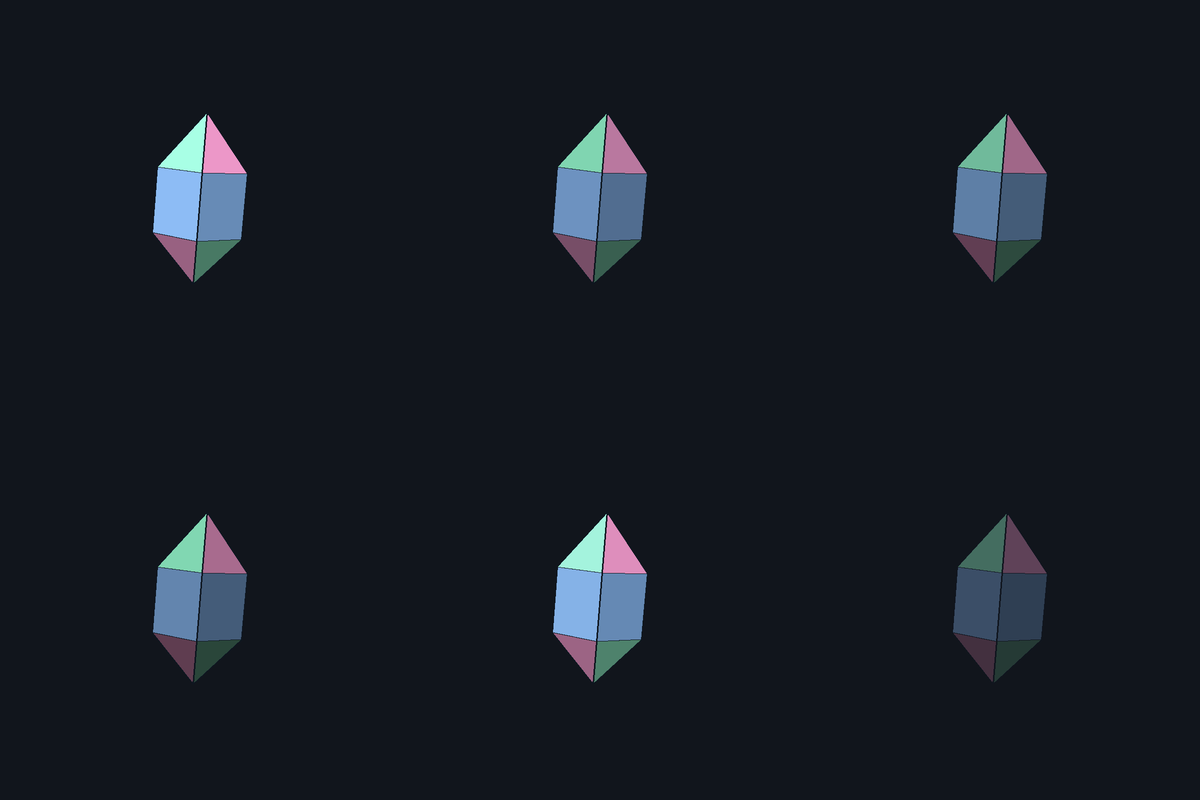
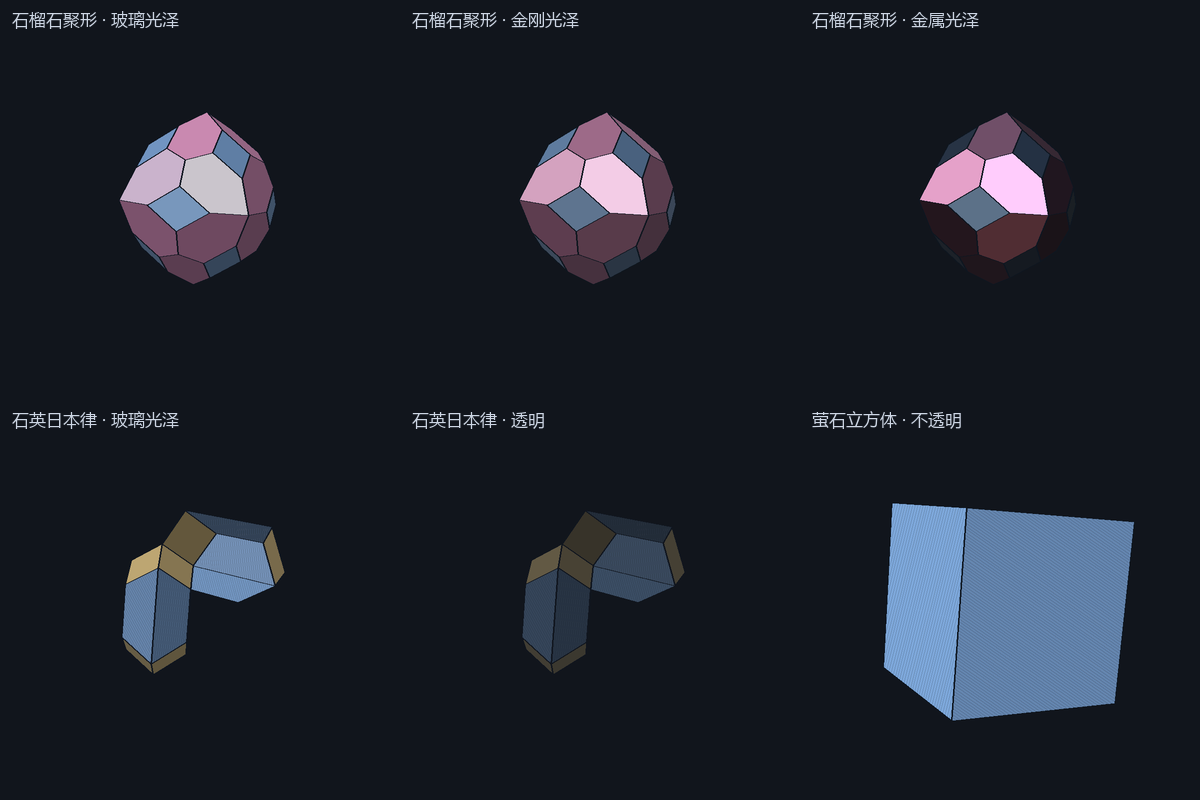
渲染第 0 步：Schlick 菲涅耳 + 程序化影棚环境反射，六种光泽区分开
LUSTERS 每项加 ior/envI/metal；shadeFace() 重写：R0=((n-1)/(n+1))^2，F=R0+(1-R0)(1-|n.v|)^5，按 r=2(n.v)n-v 取样 ENV_LIGHTS 环境；金属 amb/diff .28/.54 -> .04/.07（漫反射会淹掉反射，是光泽无差异的主因）。qa-render.py 同步复刻，lustre 六联图加中文标签（微软雅黑）。文档 §11 记录三次失败调参与仍做不到的（色散/次表面/每像素法线）。

diff --git a/demo/crystal.html b/demo/crystal.html
@@ -346,14 +346,16 @@ const Q_VIEW = qNorm(qMul(qAxis(0, 1, 0, 0.52), qAxis(1, 0, 0, -Math.PI / 2 + 0.
 const Q_AXES = qNorm(qAxis(1, 0, 0, -Math.PI / 2));
 const TINTS = [[0.55, 0.74, 0.97], [0.97, 0.62, 0.82], [0.55, 0.92, 0.76], [0.97, 0.84, 0.55]];
 const LIGHT_V = unit([-0.34, 0.62, 0.72]);
-/* 光泽模型：amb 环境、diff 漫反射、spec 高光强度、shin 高光锐度、alpha 通透度、back 背面透出度 */
+/* 光泽模型：amb 环境、diff 漫反射、spec 高光强度、shin 高光锐度、alpha 通透度、back 背面透出度、
+   fres 掠射角提亮、ior 折射率（决定 R0=((n-1)/(n+1))^2 镜面反射率）、envI 环境反射强度、
+   metal 金属（R0=1 且反射带本体色，无漫反射） */
 const LUSTERS = {
-  opaque:      { zh: "不透明", amb: .54, diff: .62, spec: .05, shin: 8,   alpha: 1,    back: 1,   fres: .06 },
-  glass:       { zh: "玻璃",   amb: .44, diff: .56, spec: .60, shin: 80,  alpha: .88,  back: .55, fres: .40 },
-  adamantine:  { zh: "金刚",   amb: .30, diff: .50, spec: .98, shin: 150, alpha: .95,  back: .62, fres: .58 },
-  metallic:    { zh: "金属",   amb: .28, diff: .54, spec: .85, shin: 42,  alpha: 1,    back: 1,   fres: .50, tintSpec: true },
-  waxy:        { zh: "蜡状",   amb: .58, diff: .50, spec: .18, shin: 14,  alpha: .96,  back: .72, fres: .14 },
-  transparent: { zh: "透明",   amb: .40, diff: .44, spec: .40, shin: 70,  alpha: .50,  back: .30, fres: .62 },
+  opaque:      { zh: "不透明", amb: .50, diff: .60, spec: .05, shin: 4,   alpha: 1,    back: 1,   fres: .06, ior: 1.60, envI: .10 },
+  glass:       { zh: "玻璃",   amb: .40, diff: .55, spec: .75, shin: 14,  alpha: .78,  back: .55, fres: .34, ior: 1.54, envI: .52 },
+  adamantine:  { zh: "金刚",   amb: .22, diff: .38, spec: 1.0, shin: 22,  alpha: .95,  back: .62, fres: .48, ior: 2.42, envI: 1.00 },
+  metallic:    { zh: "金属",   amb: .04, diff: .07, spec: .85, shin: 10,  alpha: 1,    back: 1,   fres: .34, ior: 1.00, envI: .95, metal: 1 },
+  waxy:        { zh: "蜡状",   amb: .58, diff: .50, spec: .22, shin: 6,   alpha: .96,  back: .72, fres: .14, ior: 1.50, envI: .22 },
+  transparent: { zh: "透明",   amb: .34, diff: .42, spec: .55, shin: 16,  alpha: .45,  back: .30, fres: .52, ior: 1.54, envI: .45 },
 };
 const DEFAULT_LUSTER = "glass";
 
@@ -477,16 +479,48 @@ const inside = (p) => {
 
 const mat = () => LUSTERS[state.luster || mineral().luster || DEFAULT_LUSTER] || LUSTERS.glass;
 
+/* 程序化"影棚环境"：方向固定在世界/观察空间，晶体转动时反射内容随之扫过各个晶面——
+   这正是真实晶体在固定光源下的观感。不是贴图，是几个方向光斑加天地渐变。
+   第一个与 LIGHT_V 同向，保证高光和环境反射对得上（不会出现"高光在左、亮斑在右"的撕裂） */
+const ENV_LIGHTS = [
+  { dir: unit([-0.34, 0.62, 0.72]), col: [1.00, 0.98, 0.93], sharp: 3.5, inten: 0.75 },  // 主柔光箱：大面积柔光，提供整体的"上左下亮"反射梯度
+  { dir: unit([0.72, 0.28, 0.62]),  col: [0.60, 0.72, 1.00], sharp: 26, inten: 0.50 },  // 高位冷侧亮块：较窄，制造锐利的亮斑
+  { dir: unit([0.10, -0.85, 0.50]), col: [0.95, 0.78, 0.58], sharp: 2,  inten: 0.26 },  // 下方暖反光板
+];
+function envSample(r) {
+  const out = [0, 0, 0];
+  for (const L of ENV_LIGHTS) {
+    const k = Math.pow(Math.max(0, dot(r, L.dir)), L.sharp) * L.inten;
+    out[0] += k * L.col[0]; out[1] += k * L.col[1]; out[2] += k * L.col[2];
+  }
+  // 天顶亮、地平中、地面暗的基础渐变：没有它，反射非光源方向是死黑，金属会"缺块"
+  const t = Math.max(-1, Math.min(1, r[1]));
+  const g = 0.16 * Math.pow(Math.max(0, t), 0.65) + 0.05 * Math.pow(Math.max(0, -t), 0.5);
+  out[0] += g * 0.72; out[1] += g * 0.80; out[2] += g * 0.95;
+  return out;
+}
+
 function shadeFace(base, n, cw, eye, M) {
   const lam = Math.max(0, dot(n, LIGHT_V));
   const v = unit(sub(eye, cw));
   const hv = unit([LIGHT_V[0] + v[0], LIGHT_V[1] + v[1], LIGHT_V[2] + v[2]]);
   const sp = Math.pow(Math.max(0, dot(n, hv)), M.shin) * M.spec;
   const tint = M.tintSpec ? [0.35 + 0.65 * base[0], 0.35 + 0.65 * base[1], 0.35 + 0.65 * base[2]] : null;
-  // 掠射角提亮（Fresnel）：玻璃/金刚石在斜看时边缘发亮，这一项最能拉开"塑料感"与"晶体感"
-  const fres = Math.pow(1 - Math.abs(dot(n, v)), 3) * (M.fres || 0);
+  // 反射向量：视线被这个面弹向哪里，就取环境那个方向的颜色
+  const d = dot(n, v);
+  const env = envSample([2 * d * n[0] - v[0], 2 * d * n[1] - v[1], 2 * d * n[2] - v[2]]);
+  // Schlick 菲涅耳：R0=((n-1)/(n+1))^2。石英≈4%、金刚石≈17%、金属=1。
+  // 同一种"亮边"，过去只能靠 fres 假造，现在有了物理依据
+  const R0 = M.metal ? 1 : Math.pow((M.ior - 1) / (M.ior + 1), 2);
+  const F = R0 + (1 - R0) * Math.pow(1 - Math.abs(d), 5);
+  const refl = F * M.envI;
+  // 掠射角提亮：保留的"晶体感"项，量已调小，避免与 Schlick 双重计分
+  const fres = Math.pow(1 - Math.abs(d), 3) * (M.fres || 0) * 0.45;
   return [0, 1, 2].map(i =>
-    clamp(base[i] * (M.amb + M.diff * lam) + (tint ? tint[i] : 1) * sp + fres * (0.55 + 0.45 * base[i]), 0, 1));
+    clamp(base[i] * (M.amb + M.diff * lam)                       // 漫反射 + 环境光
+      + (tint ? tint[i] : 1) * sp                                 // 锐利高光
+      + (M.metal ? base[i] : 1) * refl * env[i]                   // 环境反射（金属带本体色）
+      + fres * (0.55 + 0.45 * base[i]), 0, 1));
 }
 const rgbStr = (c, a = 1) => `rgba(${Math.round(c[0]*255)},${Math.round(c[1]*255)},${Math.round(c[2]*255)},${a})`;
 const hexToRgb = (h) => [parseInt(h.slice(1, 3), 16) / 255, parseInt(h.slice(3, 5), 16) / 255, parseInt(h.slice(5, 7), 16) / 255];

diff --git a/demo/crystal_template.html b/demo/crystal_template.html
@@ -346,14 +346,16 @@ const Q_VIEW = qNorm(qMul(qAxis(0, 1, 0, 0.52), qAxis(1, 0, 0, -Math.PI / 2 + 0.
 const Q_AXES = qNorm(qAxis(1, 0, 0, -Math.PI / 2));
 const TINTS = [[0.55, 0.74, 0.97], [0.97, 0.62, 0.82], [0.55, 0.92, 0.76], [0.97, 0.84, 0.55]];
 const LIGHT_V = unit([-0.34, 0.62, 0.72]);
-/* 光泽模型：amb 环境、diff 漫反射、spec 高光强度、shin 高光锐度、alpha 通透度、back 背面透出度 */
+/* 光泽模型：amb 环境、diff 漫反射、spec 高光强度、shin 高光锐度、alpha 通透度、back 背面透出度、
+   fres 掠射角提亮、ior 折射率（决定 R0=((n-1)/(n+1))^2 镜面反射率）、envI 环境反射强度、
+   metal 金属（R0=1 且反射带本体色，无漫反射） */
 const LUSTERS = {
-  opaque:      { zh: "不透明", amb: .54, diff: .62, spec: .05, shin: 8,   alpha: 1,    back: 1,   fres: .06 },
-  glass:       { zh: "玻璃",   amb: .44, diff: .56, spec: .60, shin: 80,  alpha: .88,  back: .55, fres: .40 },
-  adamantine:  { zh: "金刚",   amb: .30, diff: .50, spec: .98, shin: 150, alpha: .95,  back: .62, fres: .58 },
-  metallic:    { zh: "金属",   amb: .28, diff: .54, spec: .85, shin: 42,  alpha: 1,    back: 1,   fres: .50, tintSpec: true },
-  waxy:        { zh: "蜡状",   amb: .58, diff: .50, spec: .18, shin: 14,  alpha: .96,  back: .72, fres: .14 },
-  transparent: { zh: "透明",   amb: .40, diff: .44, spec: .40, shin: 70,  alpha: .50,  back: .30, fres: .62 },
+  opaque:      { zh: "不透明", amb: .50, diff: .60, spec: .05, shin: 4,   alpha: 1,    back: 1,   fres: .06, ior: 1.60, envI: .10 },
+  glass:       { zh: "玻璃",   amb: .40, diff: .55, spec: .75, shin: 14,  alpha: .78,  back: .55, fres: .34, ior: 1.54, envI: .52 },
+  adamantine:  { zh: "金刚",   amb: .22, diff: .38, spec: 1.0, shin: 22,  alpha: .95,  back: .62, fres: .48, ior: 2.42, envI: 1.00 },
+  metallic:    { zh: "金属",   amb: .04, diff: .07, spec: .85, shin: 10,  alpha: 1,    back: 1,   fres: .34, ior: 1.00, envI: .95, metal: 1 },
+  waxy:        { zh: "蜡状",   amb: .58, diff: .50, spec: .22, shin: 6,   alpha: .96,  back: .72, fres: .14, ior: 1.50, envI: .22 },
+  transparent: { zh: "透明",   amb: .34, diff: .42, spec: .55, shin: 16,  alpha: .45,  back: .30, fres: .52, ior: 1.54, envI: .45 },
 };
 const DEFAULT_LUSTER = "glass";
 
@@ -477,16 +479,48 @@ const inside = (p) => {
 
 const mat = () => LUSTERS[state.luster || mineral().luster || DEFAULT_LUSTER] || LUSTERS.glass;
 
+/* 程序化"影棚环境"：方向固定在世界/观察空间，晶体转动时反射内容随之扫过各个晶面——
+   这正是真实晶体在固定光源下的观感。不是贴图，是几个方向光斑加天地渐变。
+   第一个与 LIGHT_V 同向，保证高光和环境反射对得上（不会出现"高光在左、亮斑在右"的撕裂） */
+const ENV_LIGHTS = [
+  { dir: unit([-0.34, 0.62, 0.72]), col: [1.00, 0.98, 0.93], sharp: 3.5, inten: 0.75 },  // 主柔光箱：大面积柔光，提供整体的"上左下亮"反射梯度
+  { dir: unit([0.72, 0.28, 0.62]),  col: [0.60, 0.72, 1.00], sharp: 26, inten: 0.50 },  // 高位冷侧亮块：较窄，制造锐利的亮斑
+  { dir: unit([0.10, -0.85, 0.50]), col: [0.95, 0.78, 0.58], sharp: 2,  inten: 0.26 },  // 下方暖反光板
+];
+function envSample(r) {
+  const out = [0, 0, 0];
+  for (const L of ENV_LIGHTS) {
+    const k = Math.pow(Math.max(0, dot(r, L.dir)), L.sharp) * L.inten;
+    out[0] += k * L.col[0]; out[1] += k * L.col[1]; out[2] += k * L.col[2];
+  }
+  // 天顶亮、地平中、地面暗的基础渐变：没有它，反射非光源方向是死黑，金属会"缺块"
+  const t = Math.max(-1, Math.min(1, r[1]));
+  const g = 0.16 * Math.pow(Math.max(0, t), 0.65) + 0.05 * Math.pow(Math.max(0, -t), 0.5);
+  out[0] += g * 0.72; out[1] += g * 0.80; out[2] += g * 0.95;
+  return out;
+}
+
 function shadeFace(base, n, cw, eye, M) {
   const lam = Math.max(0, dot(n, LIGHT_V));
   const v = unit(sub(eye, cw));
   const hv = unit([LIGHT_V[0] + v[0], LIGHT_V[1] + v[1], LIGHT_V[2] + v[2]]);
   const sp = Math.pow(Math.max(0, dot(n, hv)), M.shin) * M.spec;
   const tint = M.tintSpec ? [0.35 + 0.65 * base[0], 0.35 + 0.65 * base[1], 0.35 + 0.65 * base[2]] : null;
-  // 掠射角提亮（Fresnel）：玻璃/金刚石在斜看时边缘发亮，这一项最能拉开"塑料感"与"晶体感"
-  const fres = Math.pow(1 - Math.abs(dot(n, v)), 3) * (M.fres || 0);
+  // 反射向量：视线被这个面弹向哪里，就取环境那个方向的颜色
+  const d = dot(n, v);
+  const env = envSample([2 * d * n[0] - v[0], 2 * d * n[1] - v[1], 2 * d * n[2] - v[2]]);
+  // Schlick 菲涅耳：R0=((n-1)/(n+1))^2。石英≈4%、金刚石≈17%、金属=1。
+  // 同一种"亮边"，过去只能靠 fres 假造，现在有了物理依据
+  const R0 = M.metal ? 1 : Math.pow((M.ior - 1) / (M.ior + 1), 2);
+  const F = R0 + (1 - R0) * Math.pow(1 - Math.abs(d), 5);
+  const refl = F * M.envI;
+  // 掠射角提亮：保留的"晶体感"项，量已调小，避免与 Schlick 双重计分
+  const fres = Math.pow(1 - Math.abs(d), 3) * (M.fres || 0) * 0.45;
   return [0, 1, 2].map(i =>
-    clamp(base[i] * (M.amb + M.diff * lam) + (tint ? tint[i] : 1) * sp + fres * (0.55 + 0.45 * base[i]), 0, 1));
+    clamp(base[i] * (M.amb + M.diff * lam)                       // 漫反射 + 环境光
+      + (tint ? tint[i] : 1) * sp                                 // 锐利高光
+      + (M.metal ? base[i] : 1) * refl * env[i]                   // 环境反射（金属带本体色）
+      + fres * (0.55 + 0.45 * base[i]), 0, 1));
 }
 const rgbStr = (c, a = 1) => `rgba(${Math.round(c[0]*255)},${Math.round(c[1]*255)},${Math.round(c[2]*255)},${a})`;
 const hexToRgb = (h) => [parseInt(h.slice(1, 3), 16) / 255, parseInt(h.slice(3, 5), 16) / 255, parseInt(h.slice(5, 7), 16) / 255];

diff --git a/spike/qa-render.py b/spike/qa-render.py
@@ -1,6 +1,7 @@
 """QA 渲染器：按 demo 的相机/四元数/光泽模型复刻一帧，用来肉眼核对几何与材质。"""
 import json
 import math
+import os
 import re
 import sys
 
@@ -12,13 +13,26 @@ DIST = 7.0
 LIGHT = np.array([-0.34, 0.62, 0.72])
 LIGHT = LIGHT / np.linalg.norm(LIGHT)
 
+
+def _font(size=16):
+    """QA 图要写中文标签，PIL 默认字体不含 CJK，优先挂系统微软雅黑。"""
+    from PIL import ImageFont
+    for p in (r"C:\Windows\Fonts\msyh.ttc", r"C:\Windows\Fonts\simhei.ttf",
+              r"C:\Windows\Fonts\msyhn.ttc"):
+        if os.path.exists(p):
+            try:
+                return ImageFont.truetype(p, size)
+            except Exception:
+                pass
+    return ImageFont.load_default()
+
 LUSTERS = {
-    "opaque":     dict(amb=0.52, diff=0.62, spec=0.06, shin=8,   alpha=1.00, back=1.00),
-    "glass":      dict(amb=0.46, diff=0.58, spec=0.55, shin=70,  alpha=0.86, back=0.50),
-    "adamantine": dict(amb=0.34, diff=0.52, spec=0.90, shin=110, alpha=0.92, back=0.60),
-    "metallic":   dict(amb=0.30, diff=0.55, spec=0.75, shin=36,  alpha=1.00, back=1.00),
-    "waxy":       dict(amb=0.58, diff=0.52, spec=0.18, shin=14,  alpha=0.95, back=0.70),
-    "transparent": dict(amb=0.42, diff=0.45, spec=0.35, shin=60, alpha=0.48, back=0.28),
+    "opaque":     dict(amb=0.50, diff=0.60, spec=0.05, shin=4,   alpha=1.00, back=1.00, fres=0.06, ior=1.60, envI=0.10),
+    "glass":      dict(amb=0.40, diff=0.55, spec=0.75, shin=14,  alpha=0.78, back=0.55, fres=0.34, ior=1.54, envI=0.52),
+    "adamantine": dict(amb=0.22, diff=0.38, spec=1.00, shin=22,  alpha=0.95, back=0.62, fres=0.48, ior=2.42, envI=1.00),
+    "metallic":   dict(amb=0.04, diff=0.07, spec=0.85, shin=10,  alpha=1.00, back=1.00, fres=0.34, ior=1.00, envI=0.95, metal=1),
+    "waxy":       dict(amb=0.58, diff=0.50, spec=0.22, shin=6,   alpha=0.96, back=0.72, fres=0.14, ior=1.50, envI=0.22),
+    "transparent": dict(amb=0.34, diff=0.42, spec=0.55, shin=16, alpha=0.45, back=0.30, fres=0.52, ior=1.54, envI=0.45),
 }
 TINTS = [(0.55, 0.74, 0.97), (0.97, 0.62, 0.82), (0.55, 0.92, 0.76), (0.97, 0.84, 0.55)]
 CLIP_TINT = (0.58, 0.62, 0.68)
@@ -58,6 +72,29 @@ Q_VIEW = q_mul(q_axis(0, 1, 0, 0.52), q_axis(1, 0, 0, -math.pi / 2 + 0.16))
 Q_VIEW = Q_VIEW / np.linalg.norm(Q_VIEW)
 
 
+def _u(v):
+    v = np.array(v, dtype=float)
+    return v / np.linalg.norm(v)
+
+
+# 与 demo/crystal_template.html 的 ENV_LIGHTS 保持一致
+ENV_LIGHTS = [
+    dict(dir=_u([-0.34, 0.62, 0.72]), col=np.array([1.00, 0.98, 0.93]), sharp=3.5, inten=0.75),
+    dict(dir=_u([0.72, 0.28, 0.62]),  col=np.array([0.60, 0.72, 1.00]), sharp=26, inten=0.50),
+    dict(dir=_u([0.10, -0.85, 0.50]), col=np.array([0.95, 0.78, 0.58]), sharp=2,  inten=0.26),
+]
+
+
+def env_sample(r):
+    out = np.zeros(3)
+    for L in ENV_LIGHTS:
+        k = (max(0.0, float(np.dot(r, L["dir"]))) ** L["sharp"]) * L["inten"]
+        out = out + k * L["col"]
+    t = max(-1.0, min(1.0, float(r[1])))
+    g = 0.16 * max(0.0, t) ** 0.65 + 0.05 * max(0.0, -t) ** 0.5
+    return out + g * np.array([0.72, 0.80, 0.95])
+
+
 def shade(base, n, c, eye, mat, tint_spec=False):
     lam = max(0.0, float(np.dot(n, LIGHT)))
     v = eye - c
@@ -65,9 +102,19 @@ def shade(base, n, c, eye, mat, tint_spec=False):
     h = LIGHT + v
     h = h / (np.linalg.norm(h) + 1e-9)
     sp = (max(0.0, float(np.dot(n, h))) ** mat["shin"]) * mat["spec"]
-    col = np.array(base) * (mat["amb"] + mat["diff"] * lam)
-    spec_col = np.array(base) * 0.9 + 0.1 if tint_spec else np.array([1.0, 1.0, 1.0])
+    b = np.array(base, dtype=float)
+    col = b * (mat["amb"] + mat["diff"] * lam)
+    spec_col = b * 0.65 + 0.35 if tint_spec else np.array([1.0, 1.0, 1.0])
     col = col + spec_col * sp
+    d = float(np.dot(n, v))
+    env = env_sample(2 * d * n - v)
+    R0 = 1.0 if mat.get("metal") else ((mat["ior"] - 1) / (mat["ior"] + 1)) ** 2
+    F = R0 + (1 - R0) * (1 - abs(d)) ** 5
+    refl = F * mat["envI"]
+    tint_ref = b if mat.get("metal") else np.ones(3)
+    col = col + tint_ref * refl * env
+    fres = (1 - abs(d)) ** 3 * mat.get("fres", 0) * 0.45
+    col = col + fres * (0.55 + 0.45 * b)
     return np.clip(col, 0, 1)
 
 
@@ -200,12 +247,23 @@ def render(mineral_id, habit_id, mask_key, w, h, luster=None, bg=(0.07, 0.085, 0
 if __name__ == "__main__":
     import sys
     if len(sys.argv) > 1 and sys.argv[1] == "lustre":
-        names = [("opaque", "不透明"), ("glass", "玻璃"), ("adamantine", "金刚"),
-                 ("metallic", "金属"), ("waxy", "蜡状"), ("transparent", "透明")]
-        out = Image.new("RGB", (3 * 400, 2 * 400), (7, 9, 13))
-        for i, (lu, zh) in enumerate(names):
-            im = render("quartz", "prismatic", "111", 400, 400, luster=lu)
-            out.paste(im, ((i % 3) * 400, (i // 3) * 400))
+        # 用多面习惯（36 面聚形 / 24 面双晶）才看得出光泽差异——面太少时高光只落在一两个面上
+        tiles = [
+            ("garnet", "combined", "111", "glass",       "石榴石聚形 · 玻璃光泽"),
+            ("garnet", "combined", "111", "adamantine",  "石榴石聚形 · 金刚光泽"),
+            ("garnet", "combined", "111", "metallic",    "石榴石聚形 · 金属光泽"),
+            ("quartz", "japan-twin", "111", "glass",     "石英日本律 · 玻璃光泽"),
+            ("quartz", "japan-twin", "111", "transparent", "石英日本律 · 透明"),
+            ("fluorite", "cube", "1", "opaque",          "萤石立方体 · 不透明"),
+        ]
+        T = 400
+        out = Image.new("RGB", (3 * T, 2 * T), (7, 9, 13))
+        dr = ImageDraw.Draw(out)
+        fnt = _font(17)
+        for i, (mi, hi, mk, lu, label) in enumerate(tiles):
+            im = render(mi, hi, mk, T, T, luster=lu)
+            out.paste(im, ((i % 3) * T, (i // 3) * T))
+            dr.text(((i % 3) * T + 12, (i // 3) * T + 8), label, fill=(205, 214, 228), font=fnt)
         out.save("render/qa-lustre.png")
         print("saved render/qa-lustre.png")
 if __name__ == "__main__":

diff --git a/docs/M0-验证报告.md b/docs/M0-验证报告.md
@@ -209,3 +209,29 @@
 
 ### 10.5 断言
 `node spike/app-check.mjs`：25 条全 PASS（新增 4:3 / 9:16 / 16:9 三档“文字全部在画布内”）。
+
+## 11. 第五轮反馈：本地渲染升级（“第 0 步”）
+
+用户目标：在不迁移 WebGL、不上贴图、不上游戏引擎的前提下，先把现有 2D Canvas 渲染推向玻璃/金刚/金属质感。做法是把光照模型从“凭感觉近似”换成“有物理依据的近似”。改动只在 `demo/crystal_template.html`（`LUSTERS` 表、`ENV_LIGHTS`、`shadeFace()`），`demo/crystal.html` 由 `node spike/make-app.mjs` 重新生成，未手改。
+
+### 11.1 加了什么
+- 每种光泽新增三个光学常数：`ior`（折射率）、`envI`（环境反射强度）、`metal`（金属标记）。
+- `shadeFace()` 增加两项：
+  - **Schlick 菲涅耳反射率**：`R0 = ((n−1)/(n+1))²`，`F = R0 + (1−R0)(1−|n·v|)^5`。石英 1.54 → 4.7%，金刚石 2.42 → 17.1%，金属 = 1。同一种“亮边”在 §10.2 里靠 `fres` 假造，现在有了物理依据，`fres` 相应降到 0.45 倍权重避免双重计分。
+  - **程序化“影棚环境”反射**：`ENV_LIGHTS` 三个方向光斑 + 天地渐变，按 `r = 2(n·v)n − v` 取样。晶体转动时反射内容扫过各晶面，这正是真实晶体在固定光源下的观感。零资源文件，保持单文件 HTML 的分发优势。
+- **金属光泽的关键修正**：`amb .28 / diff .54` → `.04 / .07`。金属几乎没有漫反射，颜色必须几乎全部来自环境反射；原先的漫反射项把反射淹掉了，这是第一版“六种光泽看起来一模一样”的主因。
+
+### 11.2 三次失败的调参（都已写进代码注释）
+- 柔光箱第一版 `sharp: 18`：只有反射向量落在光源 30° 以内才亮，六个光泽一个亮斑都没出现。降到 `3.5`（大面积柔光）才出现整体的“上左下亮”反射梯度。
+- 高光指数沿袭了点光源 mental model（玻璃 `shin=55`、金刚 `110`）：诊断脚本逐面打印角度后发现面 13 的 `n·h = 0.94`，而 `0.94^55 ≈ 0.03`——**高光几何上存在，却被指数杀死**。降到玻璃 14 / 金刚 22 / 金属 10 / 不透明 4。教训：晶面数量少时高光瓣必须放宽，否则没有晶面能接住光。
+- 诊断方法（脚本为临时文件、已删除，方法记录在此）：加载 HTML 内 `DATA`，按 QA 渲染器同一套四元数与相机，逐面打印 `n·v`、`n·h`、`r·L` 与 `shade()` 最终 RGB。**先量后调**，不要凭感觉猜参数。
+- 通透度：玻璃 `alpha` .88 → .78，透明 .50 → .45。真实石英/方解石是能看穿的，原值几乎不透明。
+
+### 11.3 仍做不到的（诚实清单）
+- 色散（金刚石“火彩”）：需要波长相关折射率，平面着色做不了，留到 WebGL 版本。
+- 次表面散射：只有“整块按 alpha 淡出”的近似，没有“光进入晶体再从背面透出”。
+- 每像素法线扰动（岩石粗糙感）：平面着色下面内是常量，做不了。
+- 金刚光泽目前读起来是“暗身体 + 亮反射”；真实钻石靠内部全反射整体发亮，这一步到不了。
+
+### 11.4 断言
+`node spike/app-check.mjs`：27 条全 PASS（六种光泽可切换、三种导出画幅文字不出界、双晶面数、18 个外形闭合）。`python spike/qa-render.py lustre` 出六联对比图 `render/qa-lustre.png`（用 36 面聚形与 24 面双晶——面太少时高光只落在一两个面上，看不出光泽差异）。
